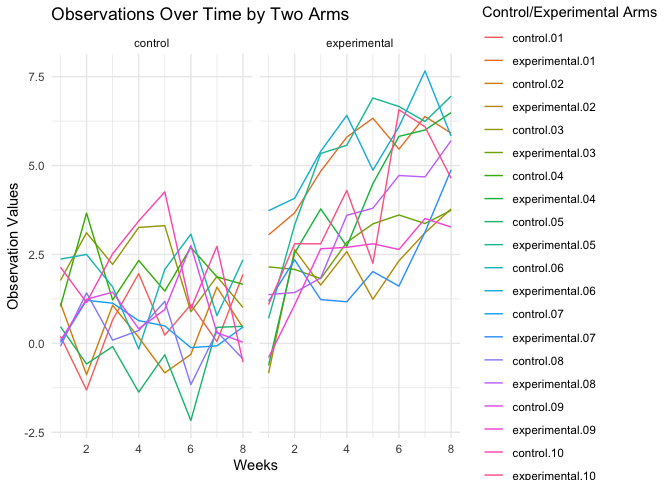
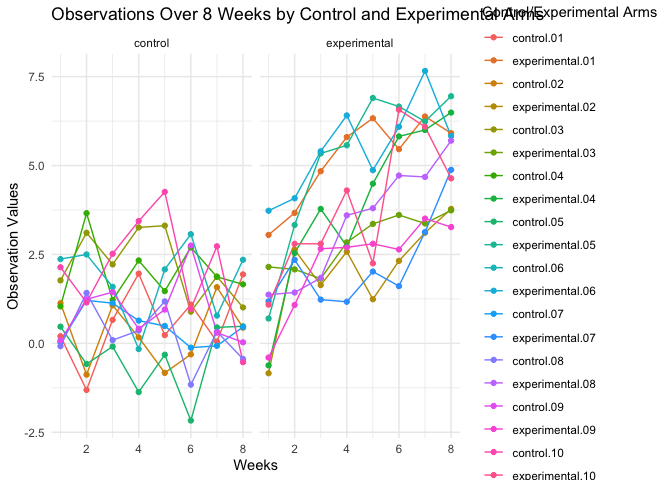
pb2 plot fixed with added geom_points

diff --git a/p8105_hw5_fz2377.md b/p8105_hw5_fz2377.md
@@ -27,8 +27,9 @@ plot_data = pivot_data |>
   group_by(arm, id)
 ggplot(plot_data, aes(x = week, y = values, group = id, color = interaction(arm, id))) +
   geom_line() +
+  geom_point() + 
   facet_grid(~arm) +
-  labs(title = "Observations Over Time by Two Arms",
+  labs(title = "Observations Over 8 Weeks by Control and Experimental Arms",
        x = "Weeks", y = "Observation Values", color = "Control/Experimental Arms") +
   theme_minimal()
 ```
